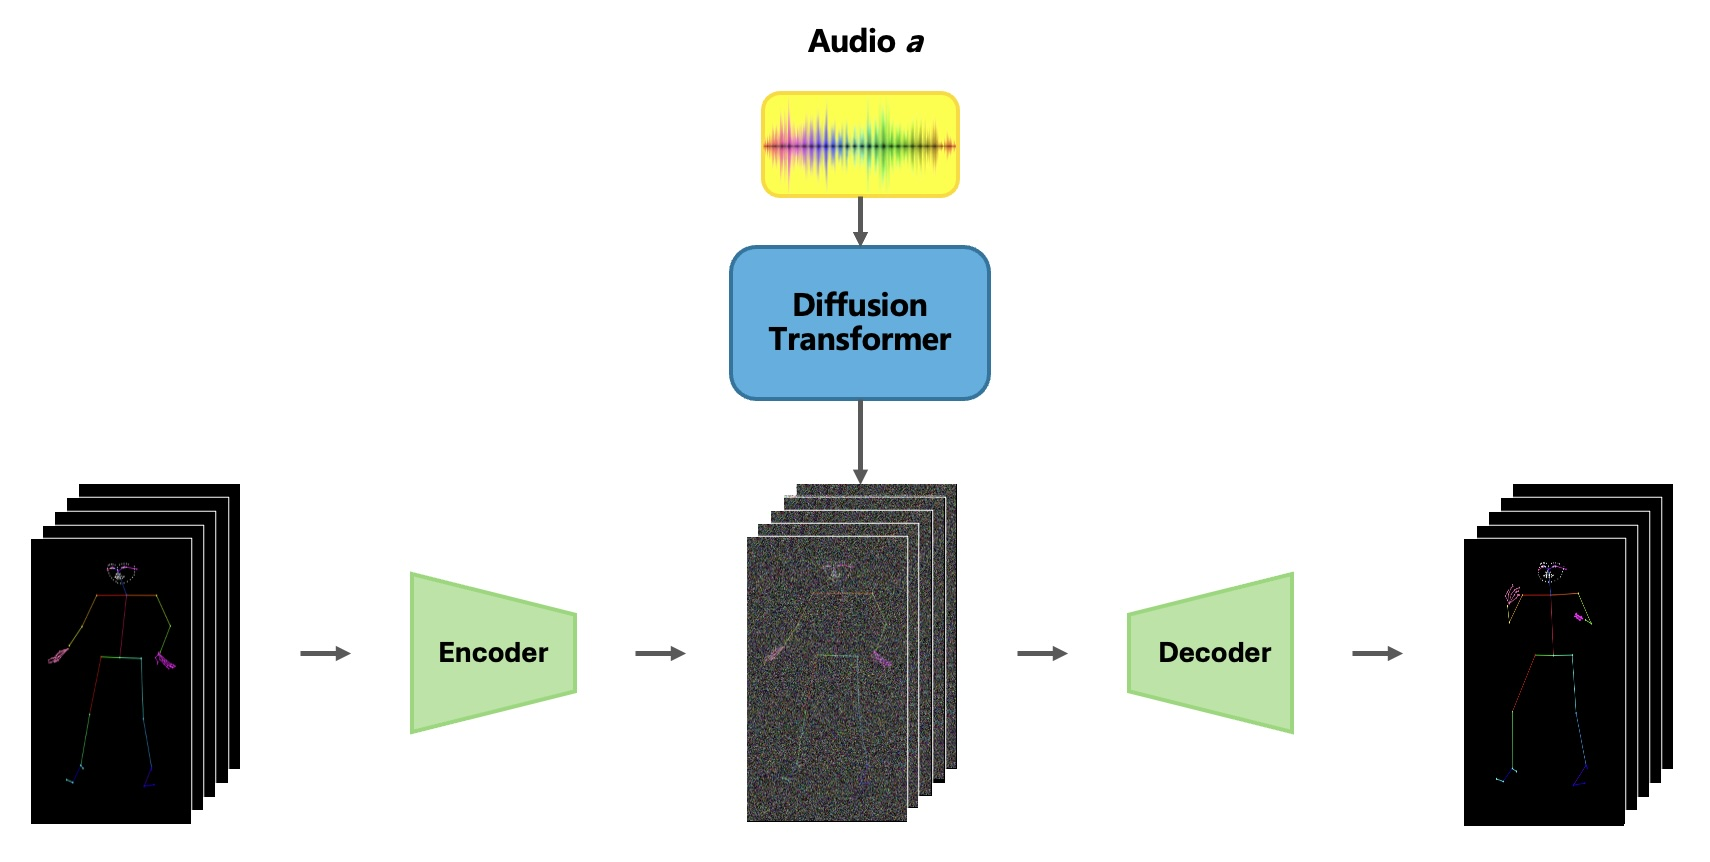
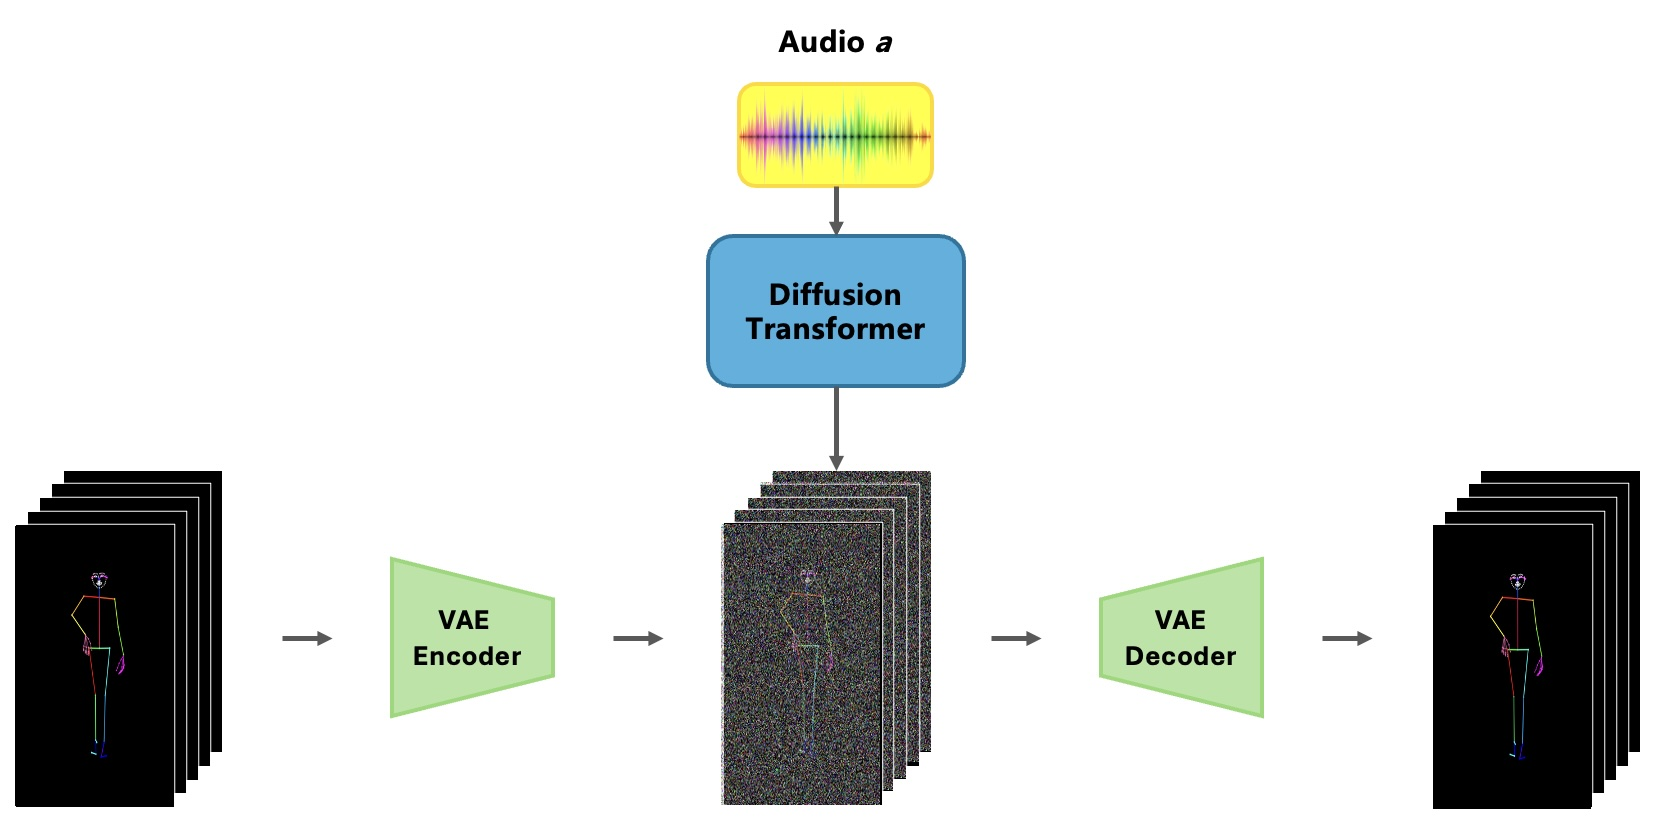
update

diff --git a/index.html b/index.html
@@ -330,17 +330,17 @@
           <h2 class="title is-3">Key Features</h2>
           <div class="content has-text-justified">
             <ol>
-              <li>Motion Reconstruction: Utilizing a hierarchical Transformer-based VAE, DanceFusion can accurately
-                reconstruct motion sequences even when significant portions of the skeleton data are incomplete or
-                noisy.
+              <li>Hierarchical Spatio-Temporal VAE for Motion Reconstruction: We introduce a hierarchical Transformer-based 
+                Variational Autoencoder (VAE) that integrates spatio-temporal encoding to effectively capture both spatial joint 
+                configurations and temporal movement dynamics. This integration enhances the model's ability to reconstruct 
+                incomplete and noisy skeleton data with high accuracy
               </li>
-              <li>Audio-Driven Motion Generation: The diffusion model integrated into the framework enables the
-                generation of dance sequences synchronized with input audio. Rhythmic and stylistic coherence
-                is maintained throughout the generated sequences.
+              <li>Integration of Diffusion Models for Audio-Driven Motion Generation: By incorporating diffusion models, 
+                DanceFusion iteratively refines motion sequences, significantly improving motion realism and ensuring precise 
+                synchronization with audio inputs.
               </li>
-              <li>Robustness to Incomplete Data: Through extensive masking techniques and Transformer encoding,
-                the model is resilient to varying levels of skeleton incompleteness, delivering robust performance even
-                with missing joints.
+              <li>Advanced Masking Techniques: We develop sophisticated masking strategies to manage missing or unreliable 
+                joint data, allowing the model to prioritize and accurately reconstruct available information.
               </li>
             </ol>
             <br />
@@ -361,63 +361,73 @@
           </div> 
           <div class="content has-text-justified">
             <p>
-              DanceFusion framework, which integrates a hierarchical spatio-temporal 
-              Transformer, Variational Autoencoder (VAE), and a diffusion model to achieve robust 
-              motion reconstruction and audio-driven dance motion generation.
+              In this chapter, we present the DanceFusion framework, which integrates a hierarchical Spatio-Temporal 
+              Transformer-based Variational Autoencoder (VAE) with a diffusion model to achieve robust motion reconstruction 
+              and audio-driven dance motion generation. The input to the model is a sequence of skeleton joints extracted from TikTok 
+              dance videos, often containing missing or noisy data. The framework aims to refine these skeleton sequences through a 
+              series of denoising steps, ensuring that the generated or reconstructed motion is temporally consistent and aligned 
+              with accompanying audio.
             </p>
           </div>
           <br />
           <!--/ 0. DanceFusion Overview. -->
 
           <!-- 1. Spatio-Temporal Encoding. -->
-          <h3 class="title is-4">1. Spatio-Temporal Encoding</h3>
+          <h3 class="title is-4">1. Hierarchical Spatio-Temporal VAE Encoding</h3>
           <div class="content has-text-centered">
             <img src="./static/images/spatio-temporal-encoding.jpg" width="75%">
           </div>
           <div class="content has-text-justified">
             <p>
-              DanceFusion adopts a hierarchical Transformer to encode both the spatial relationships
-              between skeleton joints and the temporal dynamics across frames. Each skeleton joint
-              is treated as a token, and the sequence of joints forms a spatio-temporal grid that
-              is processed by the Transformer.
+              The DanceFusion framework introduces a hierarchical Transformer-based Variational Autoencoder (VAE) that integrates 
+              spatio-temporal encoding to capture the spatial and temporal information inherent in skeleton sequences. 
+              Unlike image-based models like ViViT, which processes grid patches from static images, we treat each skeleton joint as a token, 
+              and the sequence of joints over time forms a spatio-temporal grid. Each joint in the skeleton is encoded based on its spatial 
+              relationship with other joints, and the temporal sequence of these joint positions is fed into the Transformer for processing.
             </p>
           </div>
           <br />
           <!--/ 1. Spatio-Temporal Encoding. -->
 
           <!-- 2. Variational Autoencoder (VAE). -->
-          <h3 class="title is-4">2. Variational Autoencoder (VAE)</h3>
+          <h3 class="title is-4">2. Diffusion Model for Audio-Driven Motion Generation</h3>
+          <div class="content has-text-centered">
+            <img src="./static/images/audio-driven-diffusion-process.jpg" width="75%">
+          </div>
           <div class="content has-text-justified">
             <p>
-              The VAE captures the latent representations of the skeleton motion, learning a compact
-              yet expressive latent space. This helps in robust reconstruction and motion generation,
-              even when skeleton data is incomplete.
+              Diffusion models have gained prominence in the generation of complex data sequences, demonstrating exceptional ability 
+              in synthesizing realistic and contextually accurate motion sequences. In DanceFusion, we leverage diffusion models to refine 
+              skeleton sequences and synchronize dance movements with audio inputs, thus enhancing both the visual quality and the auditory 
+              alignment of generated dance sequences.
             </p>
           </div>
           <br />
           <!--/ 2. Variational Autoencoder (VAE). -->
 
           <!-- 3. Diffusion Process for Skeleton Refinement -->
-          <h3 class="title is-4">3. Diffusion Process for Skeleton Refinement</h3>
+          <h3 class="title is-4">3. Handling Incomplete Skeleton Data</h3>
           <div class="content has-text-justified">
             <p>
-              The diffusion model progressively refines the latent representation of the skeleton
-              data by iteratively reducing noise and improving fidelity. It is particularly effective
-              in producing smooth, consistent dance motions when skeleton data is noisy or missing.
+              One of the major challenges in motion reconstruction is handling incomplete skeleton data, where certain joints may be missing 
+              due to occlusions or sensor noise. In the DanceFusion framework, this is addressed through a masking mechanism applied during 
+              the encoding phase. Each joint in the input sequence is either present or missing, and this information is captured in a binary mask. 
+              The mask prevents the model from considering missing joints during the spatial encoding process, ensuring that only reliable joints 
+              contribute to the final representation.
             </p>
           </div>
           <br />
           <!--/ 3. Diffusion Process for Skeleton Refinement. -->
 
           <!-- 4. Audio-Driven Generation -->
-          <h3 class="title is-4">4. Audio-Driven Generation</h3>
+          <!-- <h3 class="title is-4">4. Audio-Driven Generation</h3>
           <div class="content has-text-justified">
             <p>
               The diffusion process also integrates audio features, ensuring that the generated
               motions align with musical cues, producing dance motions that are not only visually
               coherent but rhythmically synchronized with the input audio.
           </div>
-          <br />
+          <br /> -->
           <!--/ 4. Audio-Driven Generation. -->
         </div>
       </div>
